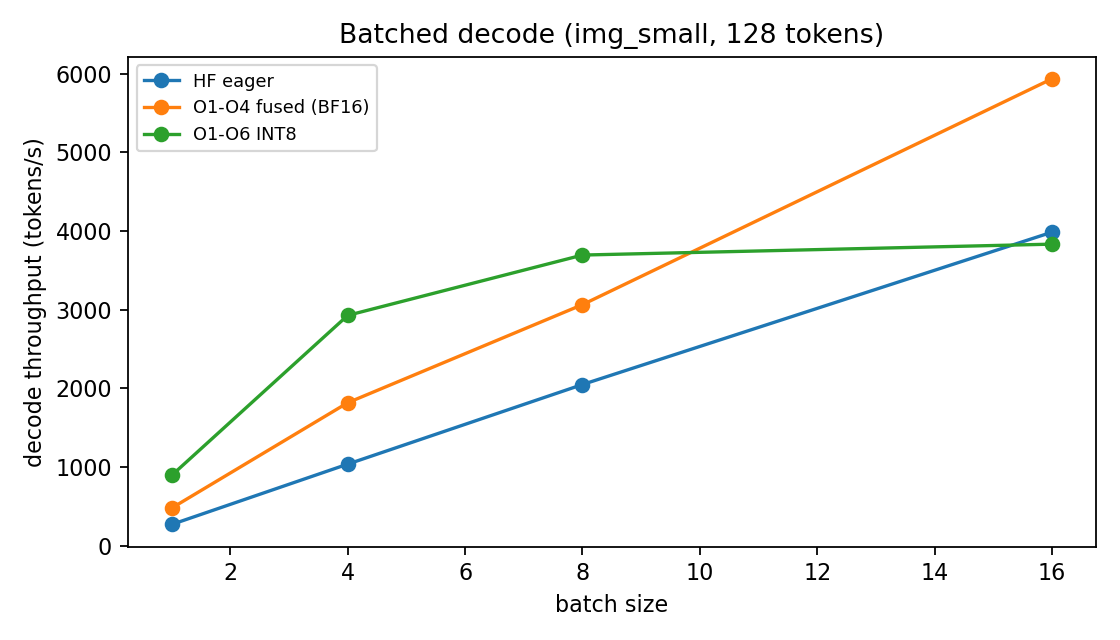
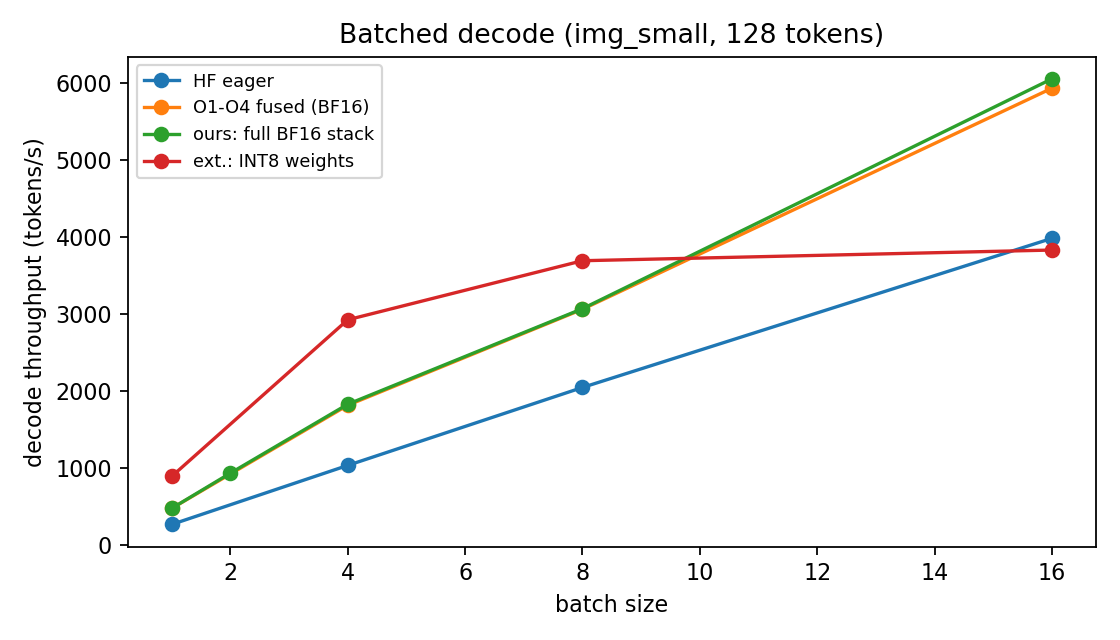
Batch sweep of the full BF16 stack: 6058 tok/s at batch 16 (HF 3972); batch figure

diff --git a/benchmarks/plot_results.py b/benchmarks/plot_results.py
@@ -180,7 +180,9 @@ def fig_quality():
 def fig_batch():
     rs = rows("batch_sweep_final")
     fig, ax = plt.subplots(figsize=(7, 4))
-    for var, label in (("baseline", "HF eager"), ("fused_gemv", "O1-O4 fused (BF16)"), ("fused_w8", "O1-O6 INT8")):
+    rs = rs + rows("batch_stack")
+    for var, label in (("baseline", "HF eager"), ("fused_gemv", "O1-O4 fused (BF16)"),
+                       ("fused_gemv_pf_vfused", "ours: full BF16 stack"), ("fused_w8", "ext.: INT8 weights")):
         pts = sorted((int(r["batch_size"]), float(r["decode_tok_s"])) for r in rs
                      if r["variant"] == var and int(r["gen_len"]) == 128 and r["decode_tok_s"])
         if pts:

diff --git a/results/raw/20261014-173348_RTXPRO5000Blackwell_batch_stack/summary.md b/results/raw/20261014-173348_RTXPRO5000Blackwell_batch_stack/summary.md
@@ -1,0 +1,16 @@
+# 20261014-173348_RTXPRO5000Blackwell_batch_stack
+
+GPU: NVIDIA RTX PRO 5000 Blackwell (sm_120), driver 595.84, torch 2.11.0+cu130, transformers 5.19.0, causal_conv1d: False, idle power: 8.3 W
+
+| variant | workload | bs | gen | tiles | img tok | TTFT ms | vision ms | prefill ms | TPOT ms | tok/s | step host/gpu ms | J/run | J/tok (dyn) | avg W | min SM MHz | mem GB |
+|---|---|---|---|---|---|---|---|---|---|---|---|---|---|---|---|---|
+| fused_gemv_pf_vfused | img_small | 1 | 1 | 1 | 234 | 12.2 | – | – | – | – | –/– | 3.11 | – (–) | 35.4 | 2407 | 4.30 |
+| fused_gemv_pf_vfused | img_small | 1 | 128 | 1 | 234 | 12.2 | – | – | 2.08 | 480.5 | –/– | 68.71 | 0.517 (0.499) | 239.5 | 2527 | 4.31 |
+| fused_gemv_pf_vfused | img_small | 2 | 1 | 1 | 234 | 19.7 | – | – | – | – | –/– | 4.53 | – (–) | 253.6 | 2587 | 4.35 |
+| fused_gemv_pf_vfused | img_small | 2 | 128 | 1 | 234 | 19.7 | – | – | 2.13 | 938.0 | –/– | 80.66 | 0.300 (0.291) | 276.4 | 2437 | 4.36 |
+| fused_gemv_pf_vfused | img_small | 4 | 1 | 1 | 234 | 36.4 | – | – | – | – | –/– | 8.30 | – (–) | 277.4 | 2565 | 4.44 |
+| fused_gemv_pf_vfused | img_small | 4 | 128 | 1 | 234 | 36.4 | – | – | 2.18 | 1832.6 | –/– | 93.14 | 0.167 (0.162) | 300.6 | 2400 | 4.46 |
+| fused_gemv_pf_vfused | img_small | 8 | 1 | 1 | 234 | 71.9 | – | – | – | – | –/– | 21.50 | – (–) | 295.0 | 2452 | 4.64 |
+| fused_gemv_pf_vfused | img_small | 8 | 128 | 1 | 234 | 71.9 | – | – | 2.60 | 3073.4 | –/– | 105.28 | 0.082 (0.080) | 271.7 | 2505 | 4.70 |
+| fused_gemv_pf_vfused | img_small | 16 | 1 | 1 | 234 | 155.4 | – | – | – | – | –/– | 46.39 | – (–) | 283.3 | 2107 | 5.03 |
+| fused_gemv_pf_vfused | img_small | 16 | 128 | 1 | 234 | 155.4 | – | – | 2.64 | 6058.3 | –/– | 137.38 | 0.045 (0.043) | 287.6 | 2505 | 5.13 |

diff --git a/docs/experiment_log.md b/docs/experiment_log.md
@@ -183,6 +183,20 @@ Entry template:
 
 **Nsight Systems timelines** (1080p, 32 tokens; `profiling/reports/20261014-1730*` baseline, `…-173136*` full stack; `PYTHON=.venv-ref/bin/python bash profiling/nsys/profile_nsys.sh img_fhd 32 --variant fused_gemv_pf_vfused`). The kernel times in the stack's CSV are inflated because PDL lets kernels start early and wait. Use `LFM2_PDL=0` for per-kernel numbers; the timeline is for the picture.
 
+**Batched decode with the full stack** (img_small, `results/raw/*_batch_stack`, 5 repeats):
+
+| Batch | TPOT | Decode throughput | J/token |
+| --- | --- | --- | --- |
+| 1 | 2.08 ms | 481 tok/s | 0.52 |
+| 2 | 2.13 ms | 938 tok/s | 0.30 |
+| 4 | 2.18 ms | 1833 tok/s | 0.17 |
+| 8 | 2.60 ms | 3073 tok/s | 0.082 |
+| 16 | 2.64 ms | **6058 tok/s** | 0.045 |
+
+- HF at batch 16 reaches 3972 tok/s.
+- The fused prefill handles batches without padding; batches of 8 and more decode through cuBLAS.
+- First token grows linearly with the batch (16 images = 16 vision tiles: 155 ms).
+
 **Figures** ([benchmarks/plot_results.py](../benchmarks/plot_results.py) → `report/figures/`):
 - `decode_tpot.png`: now with the final stack; INT4 dropped; INT8 labelled as an extension.
 - `ttft_breakdown.png`: first token including preprocessing, HF vs ours.
